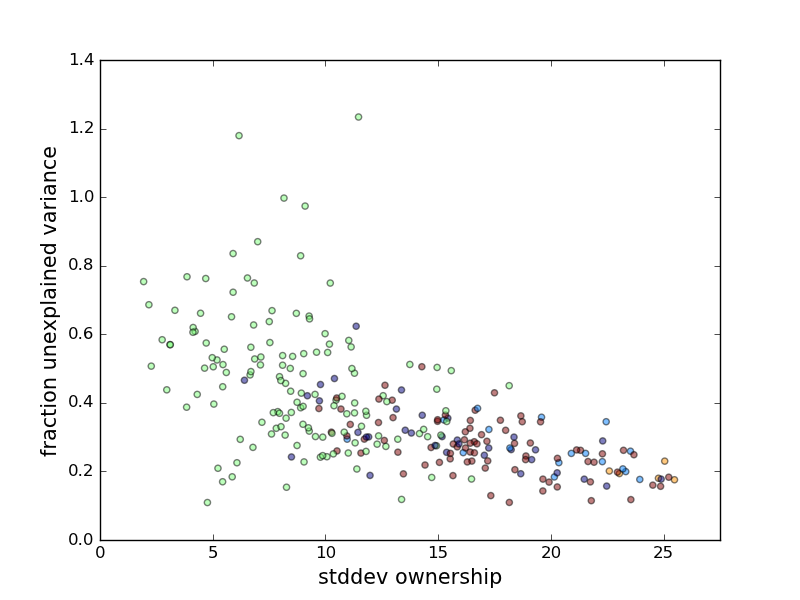
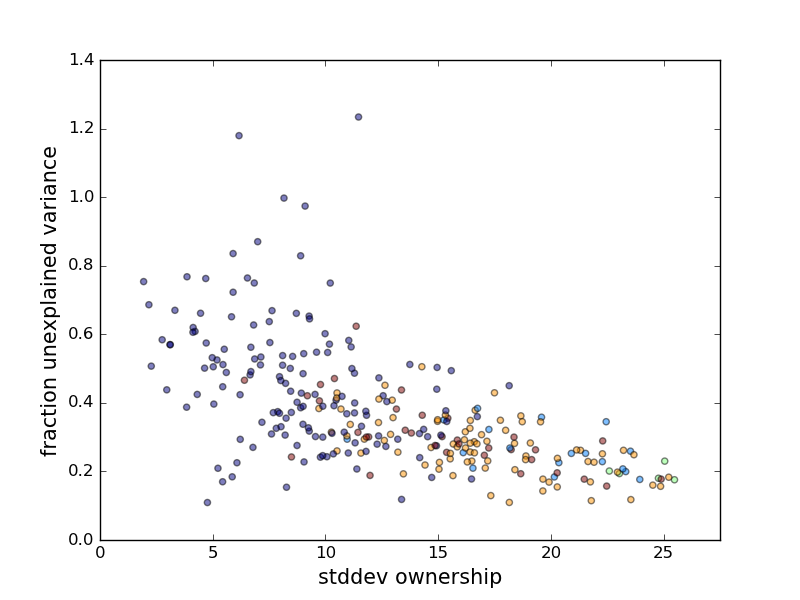
fig edits

diff --git a/ANALYSIS/KMEANS/kmeans.py b/ANALYSIS/KMEANS/kmeans.py
@@ -27,6 +27,9 @@ if __name__ == '__main__':
         try:	
 		modeltype = sys.argv[1]
 		ttype = sys.argv[2]
+		if modeltype!='Lasso':
+			print 'modeltype {} NYI!'.format(modeltype)
+			sys.exit()
         except Exception:
 		modeltype = 'Lasso'
 		ttype = 'gpp'
@@ -42,7 +45,8 @@ if __name__ == '__main__':
 
 	fdf = pd.DataFrame(A_pf.index.values.tolist(),columns=['name'])
 	fdf['cluster'] = labels
-	fdf['name'] = [x.replace('_',' ').strip('c.') for x in  fdf.name.values.tolist()] 
+	print fdf
+	#fdf['name'] = [x.replace('_',' ').strip('c.') for x in  fdf.name.values.tolist()] 
 	for cluster in np.unique(fdf.cluster):
 		df = fdf.loc[fdf.cluster==cluster]
 		print "cluster:{},len:{}".format(cluster,len(df))

diff --git a/README.md b/README.md
@@ -23,15 +23,14 @@ I set out to answer these questions using scraped contest records of field owner
 ## Results
   * __training/validating player-centered models__
 
-   Below is a plot of athletes' average ownerships against their standard deviations. Colors correspond to k-Means decomposition (n=5) of the matrix of player models by respective model coefficients. Clustering of player models (only implicitly included in the model parameters) indicates similar model composition among athletes in close proximity on the mean-standard deviation plane. In other words, it turns out that common factors drive (un)popular athletes' market share.
+   Below is a plot of athletes' average ownerships against their standard deviations. Colors correspond to groups coming out of a k-Means decomposition (k=5) of the matrix of player models by respective model coefficients. Clustering of player models (only implicitly included in the model parameters) indicates similar model composition among athletes in close proximity on the mean-standard deviation plane. In other words, it turns out that common factors drive (un)popular athletes' market share.
 
    ![alt text](https://github.com/amadeus-pinto/forecasting-daily-fantasy-gambler-picks-based-on-the-news/blob/master/ANALYSIS/KMEANS/FIGS/mu.sig.Lasso.gpp.png )
 
-   see that
+   The predictive value of a given ownership model increases with mean ownership (and also with the spread around ownership):
+   ![alt text](https://github.com/amadeus-pinto/forecasting-daily-fantasy-gambler-picks-based-on-the-news/blob/master/ANALYSIS/KMEANS/FIGS/mu.ratio.Lasso.gpp.png )
 
-   ![alt text](https://github.com/amadeus-pinto/forecasting-daily-fantasy-gambler-picks-based-on-the-news/blob/master/ANALYSIS/KMEANS/FIGS/sig.ratio.Lasso.gpp.png )
-
-   the table below
+   Find error statistics for your favorite player below:
 
    |name|mean|std|rmse(train)|rmse(val)|R2|
    |---|---|---|---|---|---|
@@ -220,10 +219,10 @@ I set out to answer these questions using scraped contest records of field owner
   ![alt text](https://github.com/amadeus-pinto/forecasting-daily-fantasy-gambler-picks-based-on-the-news/blob/master/ANALYSIS/SLATES/FIGS/field.mean.gpp.png)
   Substituting training set mean ownerships in the tournament mean equation, predicted means are wildly unrealistic.  
 
-  * __potential for stacking__
+  * __potential for stacked regression__
   ![alt text](https://github.com/amadeus-pinto/forecasting-daily-fantasy-gambler-picks-based-on-the-news/blob/master/ANALYSIS/RESIDUALS/gpp.test.corrmat.png )
 ##Model factors
-  Follow the links below to view pair distributions of dependent and independent variables of LeBron James ownership observations. (Bear in mind that different variables are important for different athlete models).
+  Follow the links below to view distributions of regressors for LeBron James' contest observations. (Bear in mind that different variables are important for different athlete models).
 
 1. ["industry" valuation](https://github.com/amadeus-pinto/forecasting-daily-fantasy-gambler-picks-based-on-the-news/blob/master/ANALYSIS/PLAYER/value.png)
   * proj_fc: fantasycrunchers fantasy score projection
